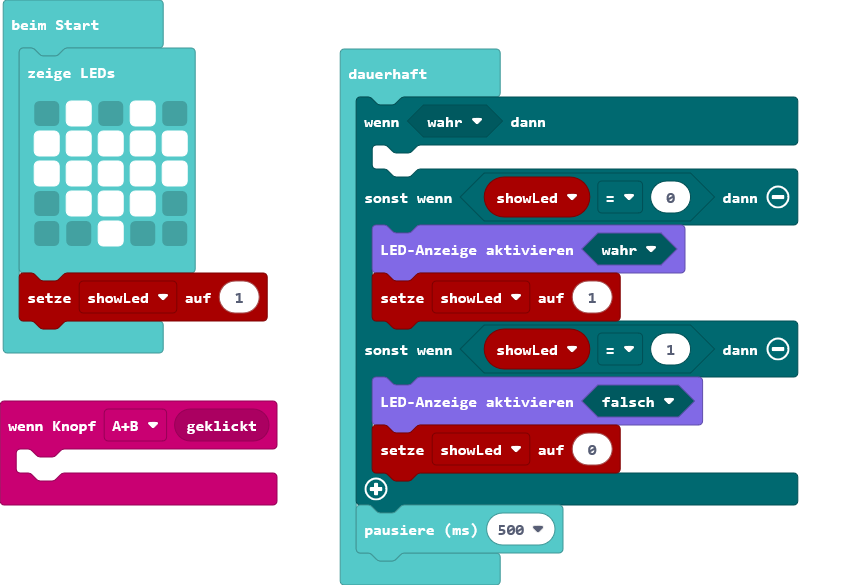
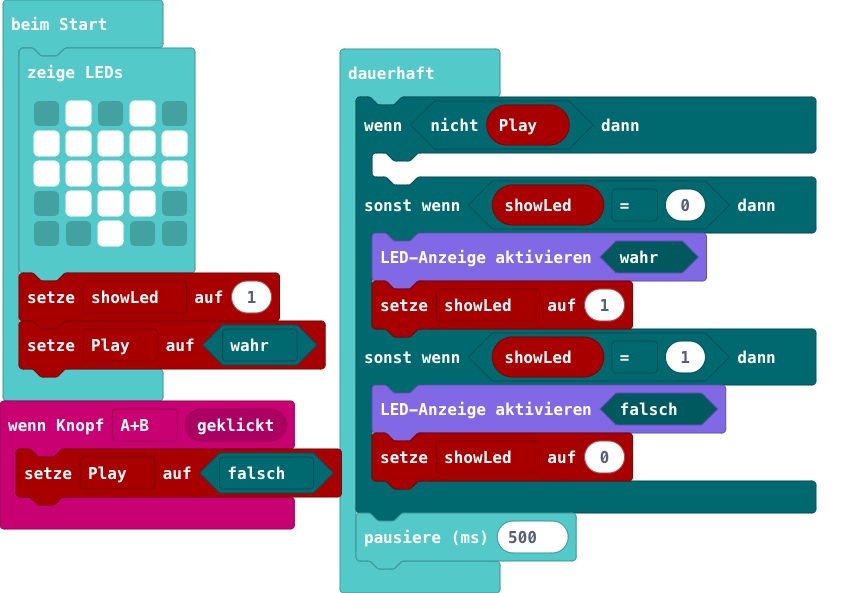
Aktualisiere main.blocks, main.ts

Changed region(s): [[0.0, 0.0, 0.9482, 1.0], [0.0, 0.0308, 0.1224, 0.0615]]

diff --git a/main.ts b/main.ts
@@ -1,6 +1,7 @@
 input.onButtonEvent(Button.AB, input.buttonEventClick(), function () {
-	
+    Play = false
 })
+let Play = false
 basic.showLeds(`
     . # . # .
     # # # # #
@@ -9,8 +10,9 @@ basic.showLeds(`
     . . # . .
     `)
 let showLed = 1
+Play = true
 basic.forever(function () {
-    if (true) {
+    if (!(Play)) {
     	
     } else if (showLed == 0) {
         led.enable(true)
